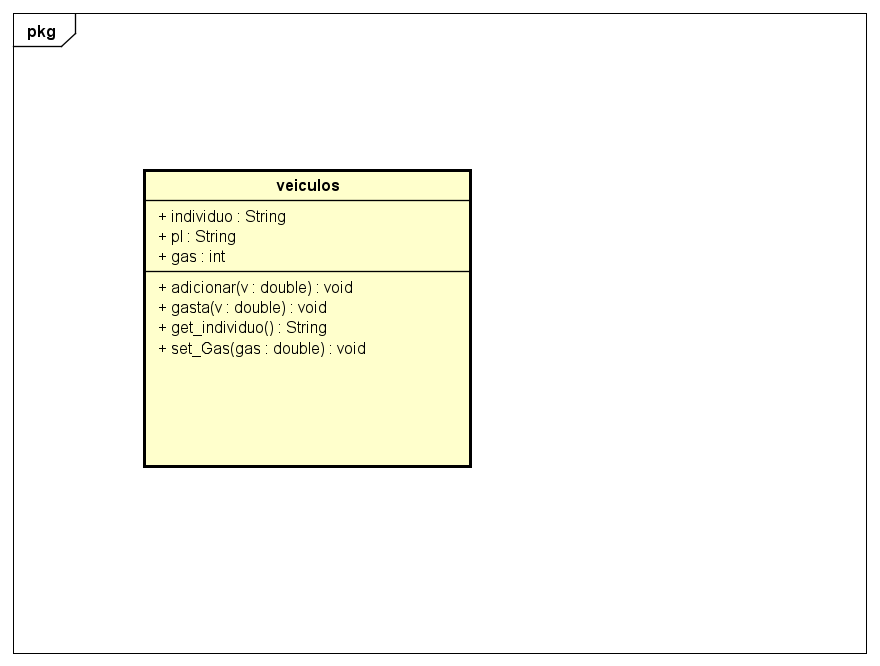
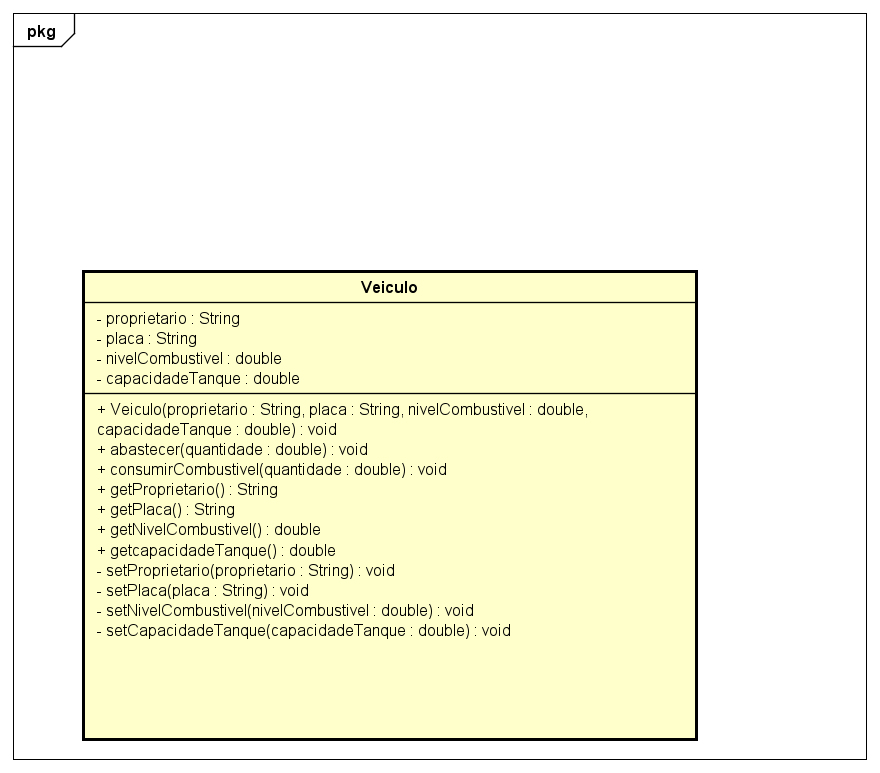
feat: implementa refatoracao da classe Veiculo

diff --git a/src/br/com/fiapride/main/SistemaPrincipal.java b/src/br/com/fiapride/main/SistemaPrincipal.java
@@ -1,23 +1,47 @@
 package br.com.fiapride.main;
 
-import br.com.fiapride.model.veiculos;
+import br.com.fiapride.model.Veiculo;
 
 public class SistemaPrincipal {
 
     public static void main(String[] args) {
 
-        veiculos v1 = new veiculos();
+        Veiculo veiculo1 = new Veiculo("Carlos", "ABC-1234", 40, 150);
 
-        v1.set_individuo("Carlos");
-        v1.set_pl("ABC-1234");
+        veiculo1.abastecer(70);
+        veiculo1.consumirCombustivel(80);
 
-        v1.setGas(0);
+        System.out.println("Proprietário: " + veiculo1.getProprietario());
+        System.out.println("Placa: " + veiculo1.getPlaca());
+        System.out.println("Nível de Combustível: "
+                + veiculo1.getNivelCombustivel());
+        System.out.println("Capacidade do Tanque: "
+                + veiculo1.getCapacidadeTanque());
 
-        v1.adicionar(50);
-        v1.gasta(100);
+        System.out.println("\n--- TESTANDO MÉTODOS ---");
 
-        System.out.println("Indivíduo: " + v1.get_individuo());
-        System.out.println("Placa: " + v1.get_pl());
-        System.out.println("Gasolina: " + v1.get_gas());
+        // Teste válido
+        veiculo1.abastecer(20);
+        System.out.println("Abastecimento de 20 litros realizado.");
+        System.out.println("Nível atual: "
+                + veiculo1.getNivelCombustivel());
+
+        // Teste inválido
+        veiculo1.abastecer(150);
+        System.out.println("Tentativa de abastecer 150 litros rejeitada.");
+        System.out.println("Nível permanece: "
+                + veiculo1.getNivelCombustivel());
+
+        // Teste válido
+        veiculo1.consumirCombustivel(10);
+        System.out.println("Consumo de 10 litros realizado.");
+        System.out.println("Nível atual: "
+                + veiculo1.getNivelCombustivel());
+
+        // Teste inválido
+        veiculo1.consumirCombustivel(500);
+        System.out.println("Tentativa de consumir 500 litros rejeitada.");
+        System.out.println("Nível permanece: "
+                + veiculo1.getNivelCombustivel());
     }
 }

diff --git a/src/br/com/fiapride/model/Veiculo.java b/src/br/com/fiapride/model/Veiculo.java
@@ -1,0 +1,76 @@
+package br.com.fiapride.model;
+
+public class Veiculo {
+
+    private String proprietario;
+    private String placa;
+    private double nivelCombustivel;
+    private double capacidadeTanque;
+
+    public Veiculo(String proprietario, String placa,
+                   double nivelCombustivel, double capacidadeTanque) {
+
+        this.setProprietario(proprietario);
+        this.setPlaca(placa);
+        this.setCapacidadeTanque(capacidadeTanque);
+        this.setNivelCombustivel(nivelCombustivel);
+    }
+
+    public void abastecer(double quantidade) {
+
+        if (quantidade > 0 &&
+            this.nivelCombustivel + quantidade <= this.capacidadeTanque) {
+
+            this.nivelCombustivel += quantidade;
+        }
+    }
+
+    public void consumirCombustivel(double quantidade) {
+
+        if (quantidade > 0 &&
+            quantidade <= this.nivelCombustivel) {
+
+            this.nivelCombustivel -= quantidade;
+        }
+    }
+
+    public String getProprietario() {
+        return this.proprietario;
+    }
+
+    private void setProprietario(String proprietario) {
+        this.proprietario = proprietario;
+    }
+
+    public String getPlaca() {
+        return this.placa;
+    }
+
+    private void setPlaca(String placa) {
+        this.placa = placa;
+    }
+
+    public double getNivelCombustivel() {
+        return this.nivelCombustivel;
+    }
+
+    public double getCapacidadeTanque() {
+        return this.capacidadeTanque;
+    }
+
+    private void setNivelCombustivel(double nivelCombustivel) {
+
+        if (nivelCombustivel >= 0 &&
+            nivelCombustivel <= this.capacidadeTanque) {
+
+            this.nivelCombustivel = nivelCombustivel;
+        }
+    }
+
+    private void setCapacidadeTanque(double capacidadeTanque) {
+
+        if (capacidadeTanque > 0) {
+            this.capacidadeTanque = capacidadeTanque;
+        }
+    }
+}
